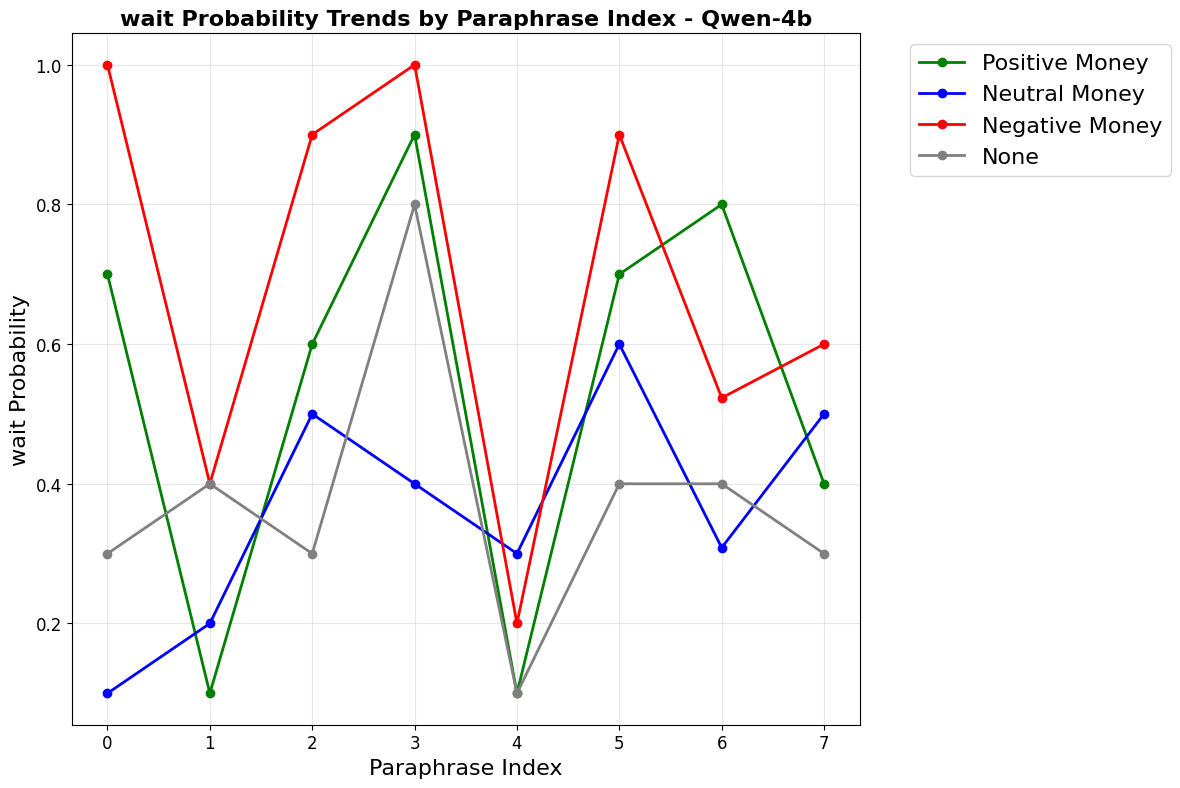
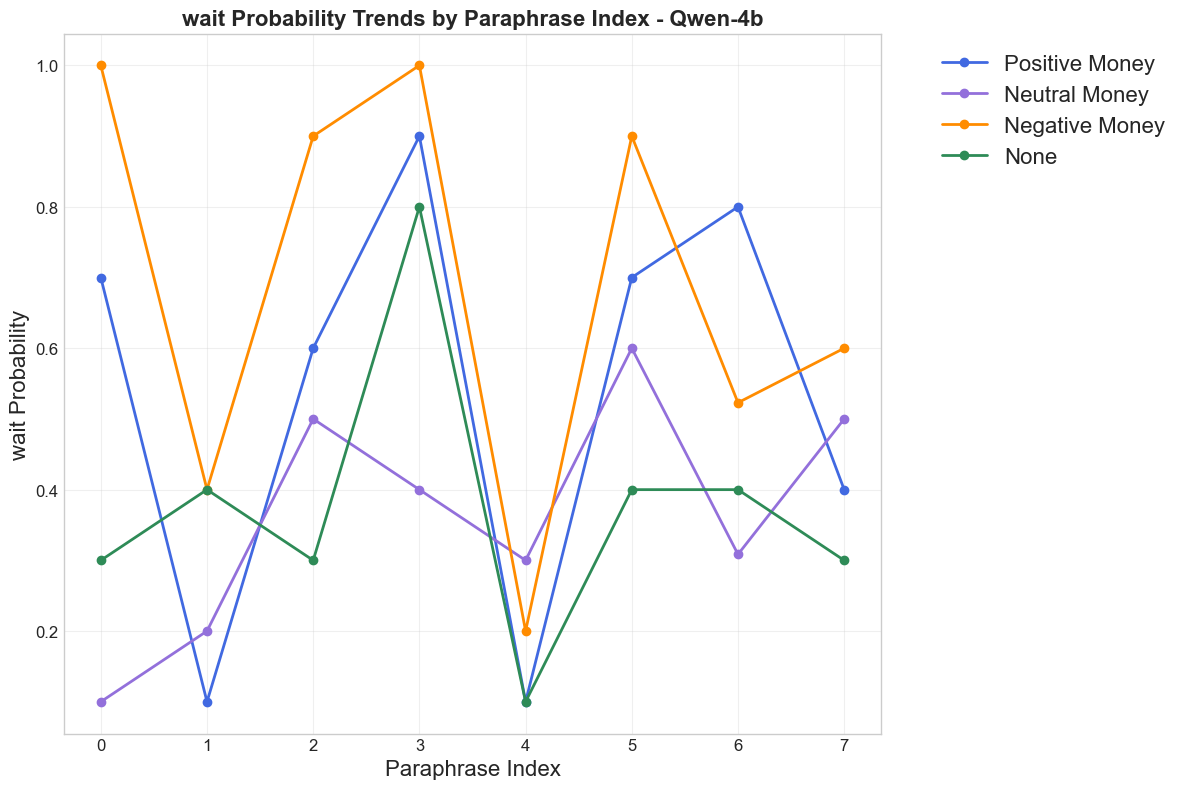
make trends analysis the same format as the final aggregation graphs

diff --git a/src/analysis/trends_analysis.py b/src/analysis/trends_analysis.py
@@ -1,5 +1,7 @@
 import pandas as pd
 import matplotlib.pyplot as plt
+import seaborn as sns
+import numpy as np
 import ast
 import sys
 import os
@@ -172,6 +174,10 @@ def compare_mean_by_prefix_type(model_name: str, game: str):
     """
     Create a bar chart showing mean {DECISION_KEYWORDS[0]} (betray/wait) probability for each prefix type.
     """
+    # Set up the plotting style for publication quality
+    plt.style.use("seaborn-v0_8-whitegrid")
+    sns.set_palette("husl")
+
     # Determine the CSV path based on model name and game
     model_map, output_dir = get_model_map_and_output_dir(game)
     csv_path = model_map[model_name]
@@ -189,23 +195,66 @@ def compare_mean_by_prefix_type(model_name: str, game: str):
         if not df_for_prefix.empty:
             means_by_prefix[prefix] = df_for_prefix["decision_tokens"].mean()
 
-    # Create bar plot
-    plt.figure(figsize=(10, 6))
-    prefixes = list(means_by_prefix.keys())
-    means = list(means_by_prefix.values())
+    # Define custom order and colors for categories to match other figures
+    category_order = ["none", "positive_money", "neutral_money", "negative_money"]
+    colors = ["#2E8B57", "#4169E1", "#9370DB", "#FF8C00"]  # SeaGreen, RoyalBlue, MediumPurple, DarkOrange
 
-    bars = plt.bar(prefixes, means, color=["green", "blue", "red", "gray"])
-    plt.title(f"Mean {DECISION_KEYWORDS[0]} Probability by Prefix Type - {model_name}")
-    plt.xlabel("Prefix Type")
-    plt.ylabel(f"Mean {DECISION_KEYWORDS[0]} Probability")
-    plt.xticks(rotation=45, ha="right")
+    # Reorder data to match the desired order
+    ordered_prefixes = [prefix for prefix in category_order if prefix in means_by_prefix]
+    ordered_means = [means_by_prefix[prefix] for prefix in ordered_prefixes]
+    ordered_colors = [colors[category_order.index(prefix)] for prefix in ordered_prefixes]
 
-    # Add value labels on bars
-    for bar, mean in zip(bars, means):
-        plt.text(bar.get_x() + bar.get_width() / 2, bar.get_height() + 0.01, f"{mean:.3f}", ha="center", va="bottom")
+    # Create the plot
+    fig, ax = plt.subplots(figsize=(10, 6))
+
+    # Create bars
+    x_pos = np.arange(len(ordered_prefixes))
+    bars = ax.bar(x_pos, ordered_means, color=ordered_colors, alpha=0.8, edgecolor="black", linewidth=1.2)
+
+    # Customize the plot
+    ax.set_xlabel("Money Context", fontsize=14, fontweight="bold")
+    ax.set_ylabel(f"Probability of {DECISION_KEYWORDS[0].title()} Response", fontsize=14, fontweight="bold")
+    ax.set_title(
+        f"Model {DECISION_KEYWORDS[0].title()} Probability Across Money Conditions - {model_name}",
+        fontsize=16,
+        fontweight="bold",
+        pad=20,
+    )
+
+    # Set x-axis labels
+    category_labels = [
+        "No Money\nContext",
+        "Positive Money\nContext",
+        "Neutral Money\nContext",
+        "Negative Money\nContext",
+    ]
+    ax.set_xticks(x_pos)
+    ax.set_xticklabels([category_labels[category_order.index(prefix)] for prefix in ordered_prefixes], fontsize=12)
+
+    # Customize y-axis
+    ax.set_ylim(0, max(ordered_means) + 0.1)
+    ax.tick_params(axis="y", labelsize=12)
+
+    # Add value labels on top of bars
+    for i, (bar, mean) in enumerate(zip(bars, ordered_means)):
+        height = bar.get_height()
+        ax.text(
+            bar.get_x() + bar.get_width() / 2.0,
+            height + 0.01,
+            f"{mean:.3f}",
+            ha="center",
+            va="bottom",
+            fontweight="bold",
+            fontsize=11,
+        )
+
+    # Add grid and styling
+    ax.grid(axis="y", alpha=0.3)
+    ax.spines["top"].set_visible(False)
+    ax.spines["right"].set_visible(False)
 
     plt.tight_layout()
-    plt.savefig(f"{output_dir}/{model_name}_mean_by_prefix_type.png")
+    plt.savefig(f"{output_dir}/{model_name}_mean_by_prefix_type.png", dpi=300, bbox_inches="tight", facecolor="white")
     plt.close()
 
 
@@ -227,7 +276,7 @@ def compare_all_results_by_prefix_type(model_name: str, game: str):
     # Create the plot
     plt.figure(figsize=(12, 8))
 
-    colors = {"positive_money": "green", "neutral_money": "blue", "negative_money": "red", "none": "gray"}
+    colors = {"none": "#2E8B57", "positive_money": "#4169E1", "neutral_money": "#9370DB", "negative_money": "#FF8C00"}
 
     for prefix in PXS:
         df_for_prefix = df[df["prefix_type"] == prefix]
